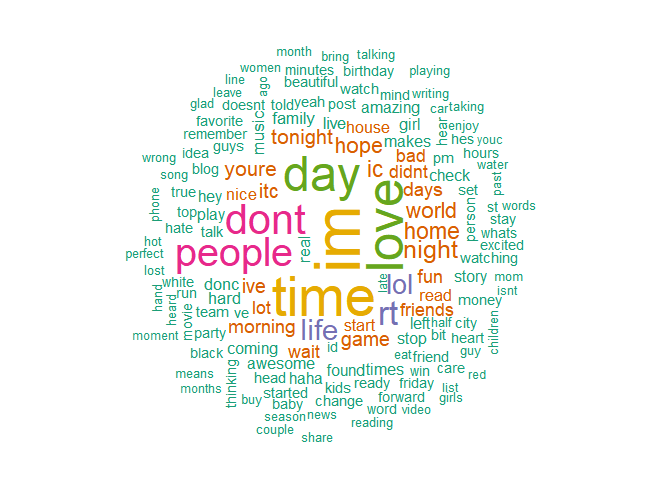
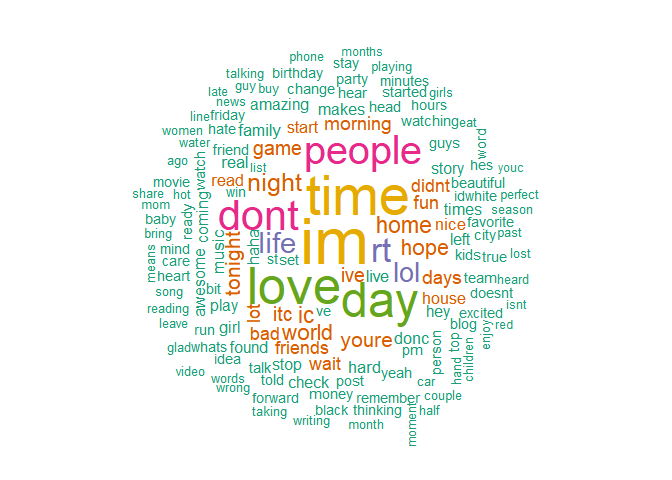
New word clouds. Fixed warnings.

Changed region(s): [[0.1875, 0.0938, 0.8125, 0.9375]]

diff --git a/02_Task_Script.md b/02_Task_Script.md
@@ -255,53 +255,17 @@ tidy_repo %>%
 
 ``` r
 # News
+```
+
+``` r
 tidy_repo %>%
   filter(source == "news") %>%
   count(word) %>%
-  with(wordcloud(word, n, max.words = 100, 
+  with(wordcloud(word, n, max.words = 50, 
                  colors = brewer.pal(6, 'Dark2'), random.order = FALSE))
 ```
 
-    ## Warning in wordcloud(word, n, max.words = 100, colors = brewer.pal(6,
-    ## "Dark2"), : tuesday could not be fit on page. It will not be plotted.
-
-    ## Warning in wordcloud(word, n, max.words = 100, colors = brewer.pal(6,
-    ## "Dark2"), : cleveland could not be fit on page. It will not be plotted.
-
-    ## Warning in wordcloud(word, n, max.words = 100, colors = brewer.pal(6,
-    ## "Dark2"), : service could not be fit on page. It will not be plotted.
-
-    ## Warning in wordcloud(word, n, max.words = 100, colors = brewer.pal(6,
-    ## "Dark2"), : saturday could not be fit on page. It will not be plotted.
-
-    ## Warning in wordcloud(word, n, max.words = 100, colors = brewer.pal(6,
-    ## "Dark2"), : north could not be fit on page. It will not be plotted.
-
-    ## Warning in wordcloud(word, n, max.words = 100, colors = brewer.pal(6,
-    ## "Dark2"), : country could not be fit on page. It will not be plotted.
-
-    ## Warning in wordcloud(word, n, max.words = 100, colors = brewer.pal(6,
-    ## "Dark2"), : wednesday could not be fit on page. It will not be plotted.
-
-    ## Warning in wordcloud(word, n, max.words = 100, colors = brewer.pal(6,
-    ## "Dark2"), : washington could not be fit on page. It will not be plotted.
-
-    ## Warning in wordcloud(word, n, max.words = 100, colors = brewer.pal(6,
-    ## "Dark2"), : started could not be fit on page. It will not be plotted.
-
-    ## Warning in wordcloud(word, n, max.words = 100, colors = brewer.pal(6,
-    ## "Dark2"), : sunday could not be fit on page. It will not be plotted.
-
-    ## Warning in wordcloud(word, n, max.words = 100, colors = brewer.pal(6,
-    ## "Dark2"), : building could not be fit on page. It will not be plotted.
-
-    ## Warning in wordcloud(word, n, max.words = 100, colors = brewer.pal(6,
-    ## "Dark2"), : market could not be fit on page. It will not be plotted.
-
-    ## Warning in wordcloud(word, n, max.words = 100, colors = brewer.pal(6,
-    ## "Dark2"), : played could not be fit on page. It will not be plotted.
-
-![](02_Task_Script_files/figure-markdown_github-ascii_identifiers/unnamed-chunk-15-2.png)
+![](02_Task_Script_files/figure-markdown_github-ascii_identifiers/chunkoptions-1.png)
 
 ``` r
 # Twitter
@@ -312,7 +276,7 @@ tidy_repo %>%
                  colors = brewer.pal(6, 'Dark2'), random.order = FALSE))
 ```
 
-![](02_Task_Script_files/figure-markdown_github-ascii_identifiers/unnamed-chunk-15-3.png)
+![](02_Task_Script_files/figure-markdown_github-ascii_identifiers/chunkoptions-2.png)
 
 Word distribution
 
@@ -368,7 +332,7 @@ end <- Sys.time()
 (run_time <- end - start)
 ```
 
-    ## Time difference of 6.948055 mins
+    ## Time difference of 6.851307 mins
 
 ``` r
 ################
